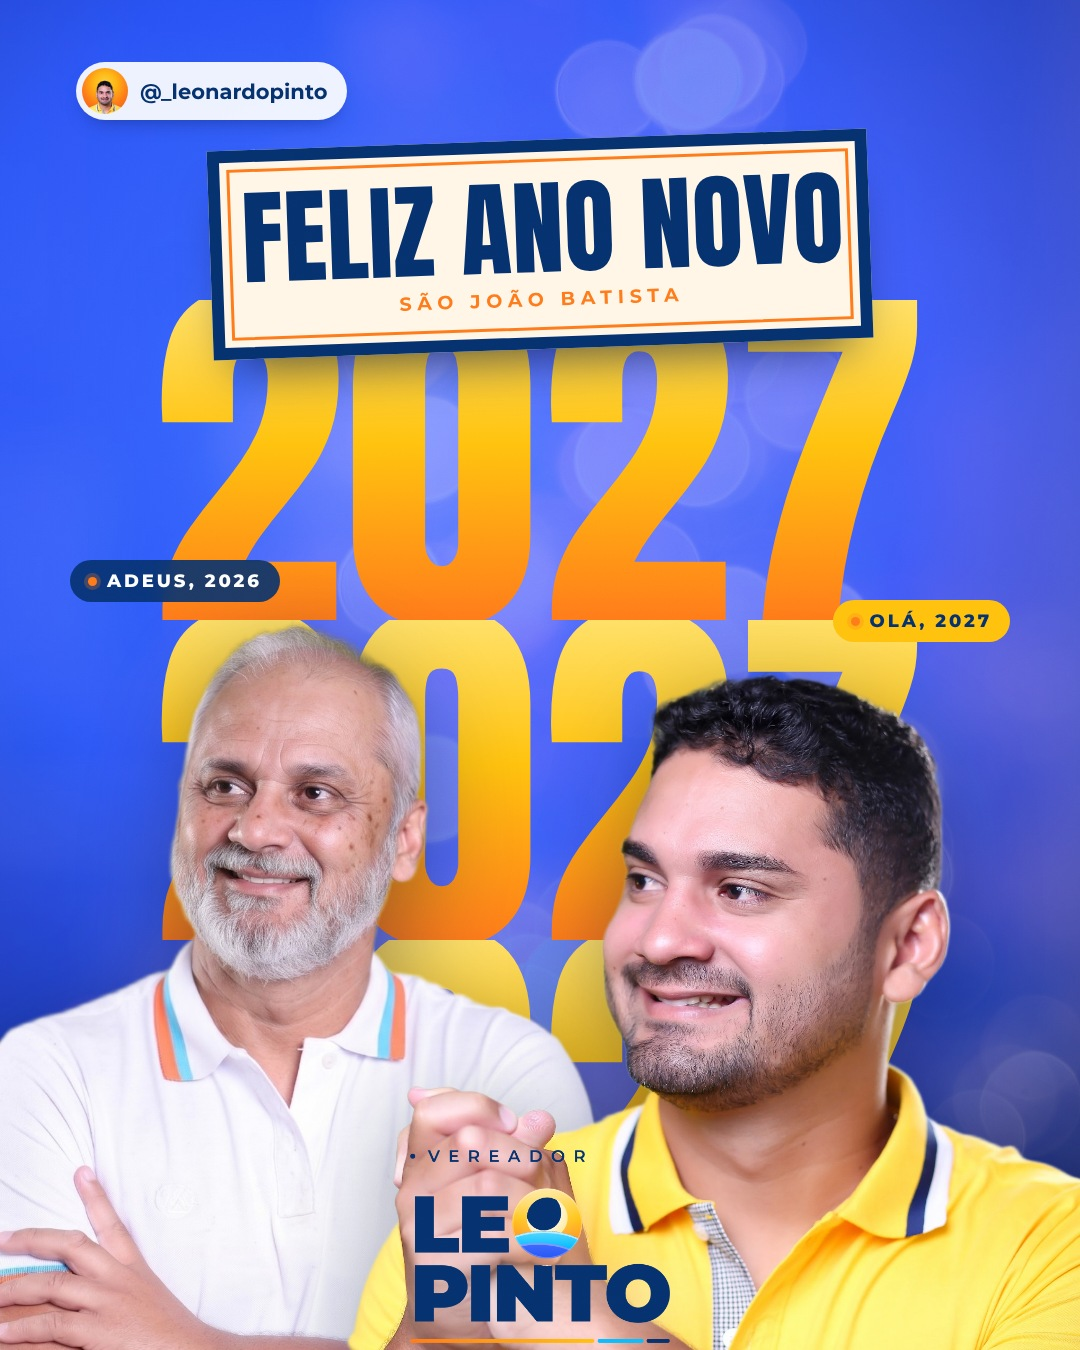
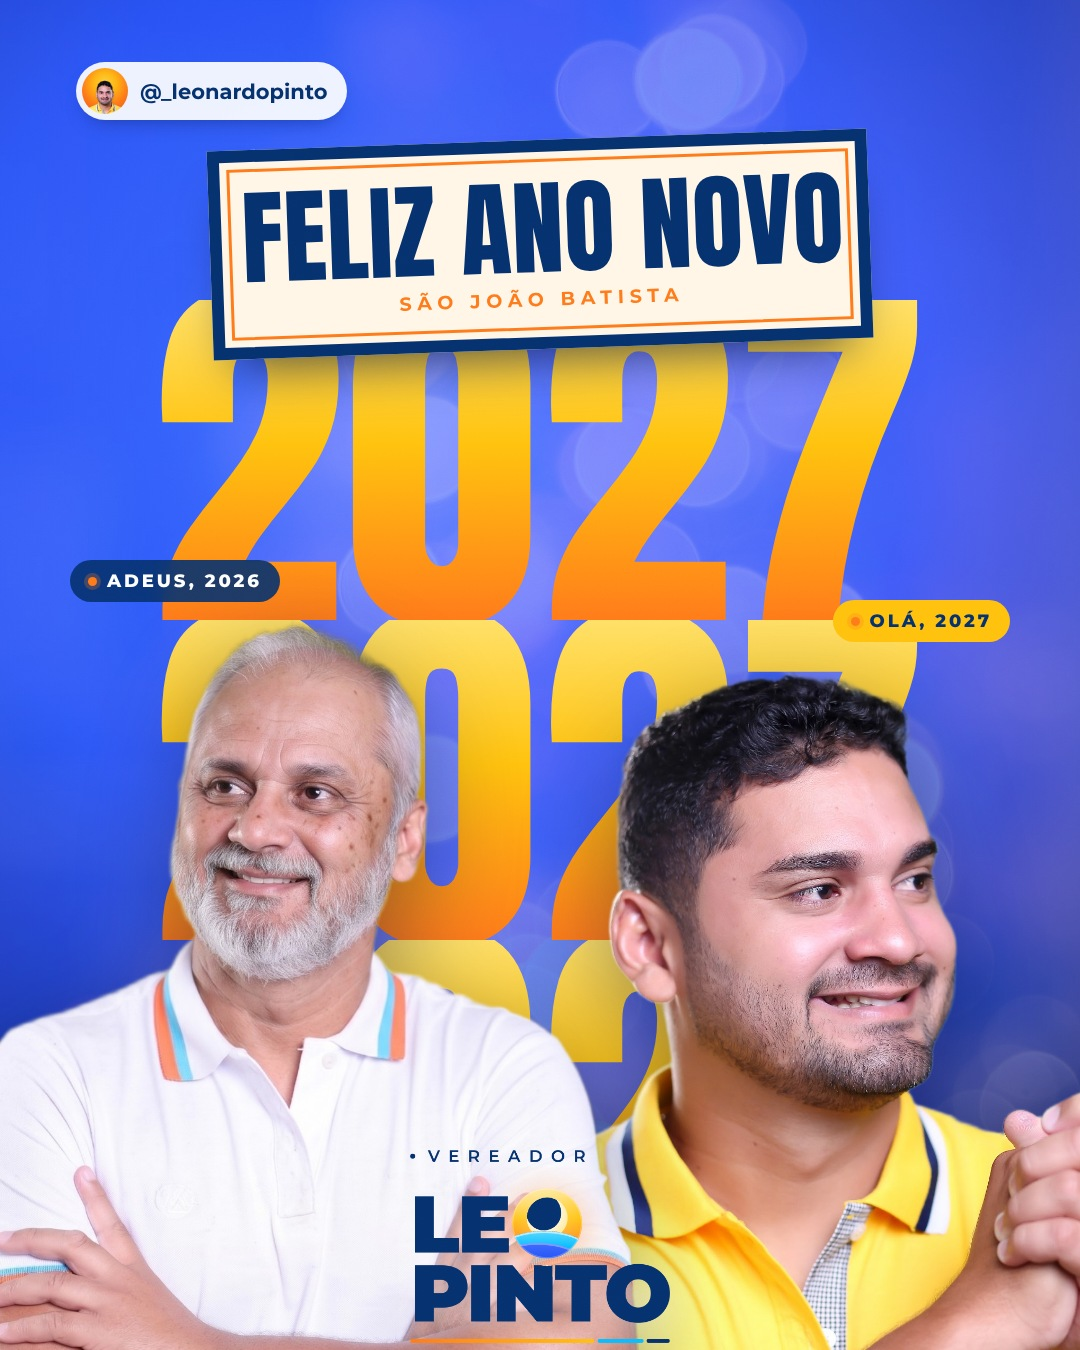
Leo Pinto: 01/01 com o Leo velho e o novo olhando para lados opostos (conta Lindson)
Claude-Session: https://claude.ai/code/session_01EzoTfxmLAapRz57Gc77LRF

Changed region(s): [[0.3056, 0.4978, 1.0, 1.0]]

diff --git a/agencia/clientes/leo-pinto/instagram-v14-datas/gerar9.py b/agencia/clientes/leo-pinto/instagram-v14-datas/gerar9.py
@@ -27,13 +27,13 @@ def ASSINA(fundo, pid=''):
     lg = 'logo-marinho.png' if fundo in (AMARELO, MESH_LAR) else 'logo.png'
     return ('<div class="a pill"><img src="assets/avatar.jpg">@_leonardopinto</div>' +
             (f'<img class="a logo" src="assets/{lg}">' if pid not in ('p4-25-12', 'p6-01-01') else ''))
-def foto(arq, cx, olhos_y, olho_rec, cx_rec, esc, extra=''):
+def foto(arq, cx, olhos_y, olho_rec, cx_rec, esc, extra='', coberta=()):
     im = _I.open(f'{d}/assets/{arq}'); w, h = im.size; import numpy as _n; al = _n.array(im.getchannel('A')) > 40
     x0, y0 = cx - cx_rec*esc, olhos_y - olho_rec*esc; x1, y1 = x0 + w*esc, y0 + h*esc
     def visivel(idx, ini, fim): return any(0 <= ini + k*esc <= fim for k in _n.where(idx)[0])  # algum pixel dessa borda cai dentro da arte?
     for nome, cond in [('base', y1 < 1350 and visivel(al[-1], x0, 1080)), ('direita', x1 < 1080 and visivel(al[:, -1], y0, 1350)),
                        ('esquerda', x0 > 0 and visivel(al[:, 0], y0, 1350)), ('topo', y0 > 0 and visivel(al[0], x0, 1080))]:
-        assert not cond, f'CORTE APARENTE: {arq} tem borda cortada na {nome} dentro da arte'
+        assert not cond or nome in coberta, f'CORTE APARENTE: {arq} tem borda cortada na {nome} dentro da arte'
     return (f'<img class="a" src="assets/{arq}" style="left:{int(cx - cx_rec*esc)}px;top:{int(olhos_y - olho_rec*esc)}px;width:{int(esc*w)}px;'
             f'filter:drop-shadow(0 30px 46px rgba(2,12,50,.42));{extra}">')
 def cx(txt, fundo, cor, fs, extra=''): return f'<div class="box" style="background:{fundo};color:{cor};font-size:{fs}px;{extra}">{txt}</div>'
@@ -95,11 +95,11 @@ P.append(('p5-31-12', AMARELO, f"""
 <div class="a" style="left:0;width:1080px;top:1100px;text-align:center"><span class="K" style="font-size:50px;color:#fff;text-shadow:0 4px 16px rgba(120,40,0,.4)">comenta o número aqui embaixo</span></div>"""))
 # 6 · 01/01 · AZUL · FOTO ×2 · cópia do modelo "CONTRATE · DEZEMBRO" enviado pelo Lindson (03/11, Designi): palavra repetida em pé atrás, placa emoldurada
 #   com o título no centro, duas pessoas lado a lado na frente, logo embaixo no centro. Leo "velho" (foto 30 envelhecida pelo Lindson, espelhada) olhando
-#   para 2026 e Leo "novo" (foto 19) olhando para 2027.
+#   para 2026 e Leo "novo" (foto 19 espelhada, atrás do velho, que cobre a borda cortada) olhando para 2027: cada um para um lado.
 P.append(('p6-01-01', AZUL, f"""<img class="a" src="assets/banco-luzes.jpg" style="inset:0;width:1080px;height:1350px;object-fit:cover;opacity:.35;mix-blend-mode:screen">
 <div class="a" style="left:0;width:1080px;top:300px;text-align:center">{''.join(f'<div class="H" style="font-size:390px;line-height:.82;{GRAD}">2027</div>' for _ in range(3))}</div>
+{foto('leo-19-fino-esp.png', 780, 830, 300, 718, .53, coberta=('esquerda',))}
 {foto('leo-30-velho-fino.png', 300, 806, 300, 560, .62)}
-{foto('leo-19-fino.png', 780, 830, 300, 820, .53)}
 <div class="a" style="left:210px;top:140px;width:660px;transform:rotate(-2deg);background:#FFF6E8;border:12px solid {MAR};outline:3px solid {LAR};outline-offset:-22px;padding:30px 20px 26px;text-align:center;box-shadow:0 30px 50px -24px rgba(2,12,50,.7)">
  {H('Feliz ano novo', 104, MAR, 'line-height:.9')}<div class="L" style="font-size:19px;color:{LAR};margin-top:12px">São João Batista</div></div>
 <div class="a" style="left:70px;top:560px">{CHIP('Adeus, 2026', '#fff', 'rgba(5,49,110,.9)')}</div>
